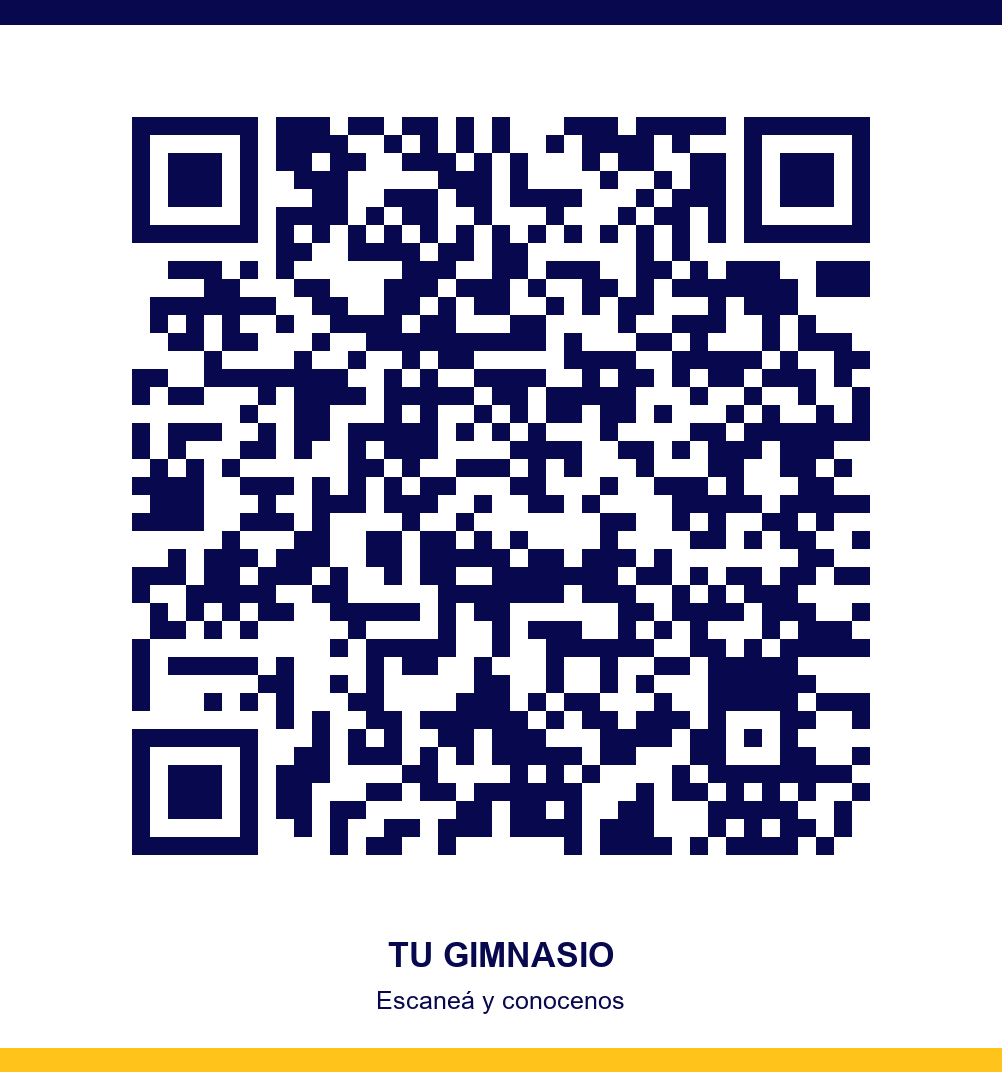
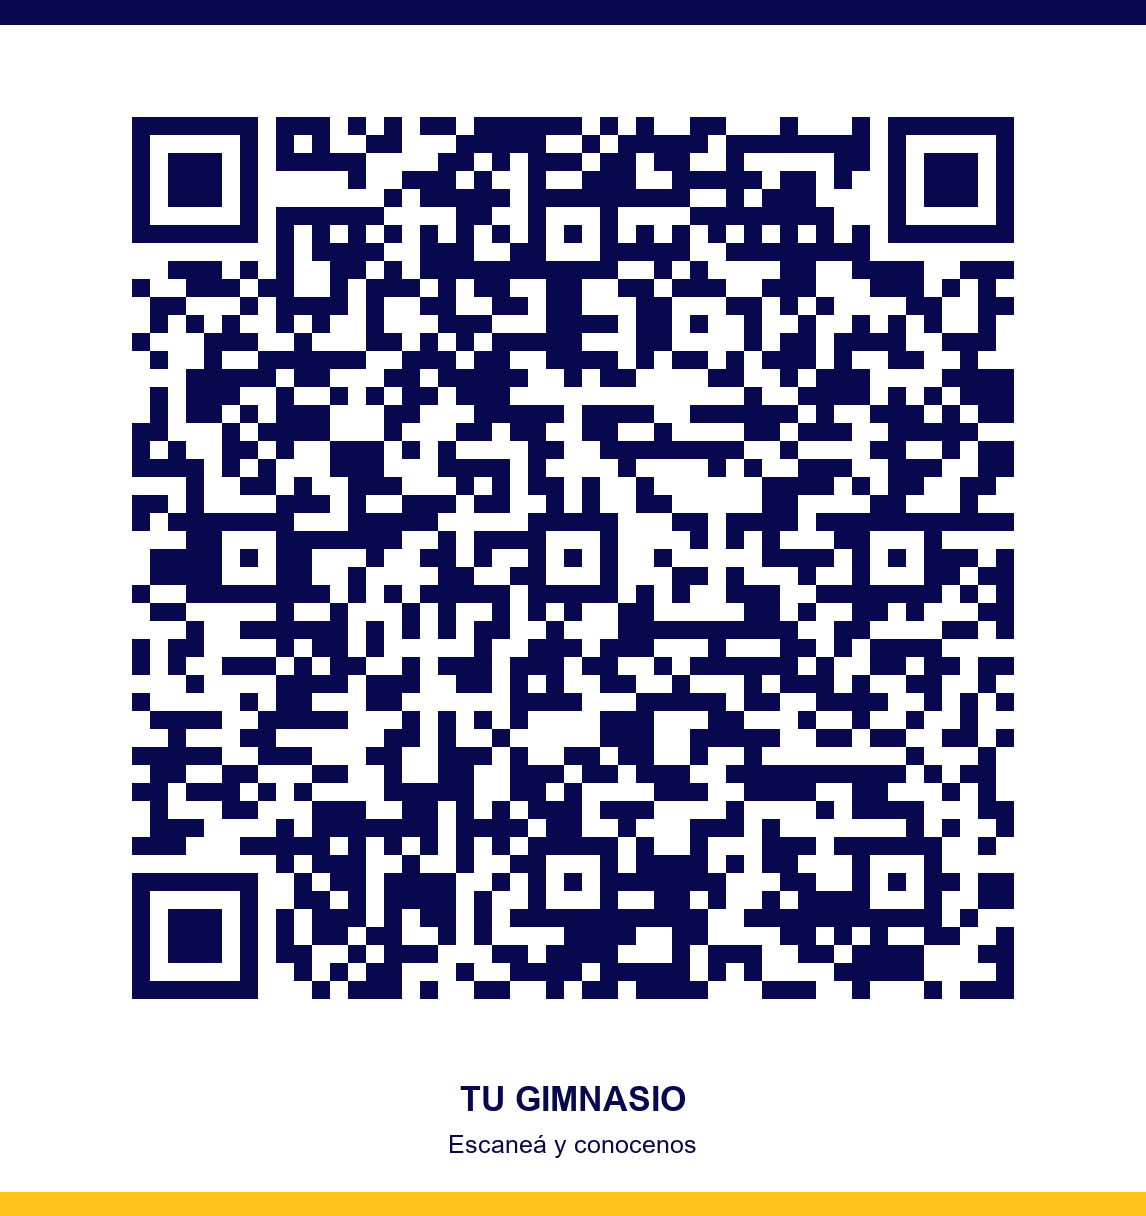
Migra enlaces y QR a la organización

diff --git a/index.html b/index.html
@@ -10,10 +10,10 @@
   <meta property="og:locale" content="es_AR">
   <meta property="og:title" content="Tu Gimnasio | Desde 1996 en Santa Lucía">
   <meta property="og:description" content="Todos somos iguales. La diferencia está en los detalles.">
-  <meta property="og:url" content="https://bautistale98.github.io/tu-gimnasio-santa-lucia/">
-  <meta property="og:image" content="https://bautistale98.github.io/tu-gimnasio-santa-lucia/tu-gimnasio-identidad.png">
+  <meta property="og:url" content="https://tu-gimnasio-santa-lucia.github.io/tu-gimnasio-santa-lucia/">
+  <meta property="og:image" content="https://tu-gimnasio-santa-lucia.github.io/tu-gimnasio-santa-lucia/tu-gimnasio-identidad.png">
   <meta name="twitter:card" content="summary_large_image">
-  <link rel="canonical" href="https://bautistale98.github.io/tu-gimnasio-santa-lucia/">
+  <link rel="canonical" href="https://tu-gimnasio-santa-lucia.github.io/tu-gimnasio-santa-lucia/">
   <link rel="icon" href="tu-gimnasio-logo.png">
   <link rel="stylesheet" href="styles.css">
 </head>
@@ -170,9 +170,9 @@
     <div class="footer-links"><a href="https://www.instagram.com/tugimnasio1/" target="_blank" rel="noopener noreferrer">Instagram</a><a href="https://maps.app.goo.gl/M5ivz5WYEiGhwfAX8" target="_blank" rel="noopener noreferrer">Google Maps</a><a href="tel:+543777723911">Llamar</a></div>
   </footer>
 
-  <script type="application/ld+json">{"@context":"https://schema.org","@type":"ExerciseGym","name":"Tu Gimnasio","foundingDate":"1996","url":"https://bautistale98.github.io/tu-gimnasio-santa-lucia/","telephone":"+54 3777 72-3911","address":{"@type":"PostalAddress","streetAddress":"Av. Italia 109","addressLocality":"Santa Lucía","addressRegion":"Corrientes","postalCode":"W3440","addressCountry":"AR"},"aggregateRating":{"@type":"AggregateRating","ratingValue":"4.8","reviewCount":"17"}}</script>
+  <script type="application/ld+json">{"@context":"https://schema.org","@type":"ExerciseGym","name":"Tu Gimnasio","foundingDate":"1996","url":"https://tu-gimnasio-santa-lucia.github.io/tu-gimnasio-santa-lucia/","telephone":"+54 3777 72-3911","address":{"@type":"PostalAddress","streetAddress":"Av. Italia 109","addressLocality":"Santa Lucía","addressRegion":"Corrientes","postalCode":"W3440","addressCountry":"AR"},"aggregateRating":{"@type":"AggregateRating","ratingValue":"4.8","reviewCount":"17"}}</script>
   <script>
-    const url = "https://bautistale98.github.io/tu-gimnasio-santa-lucia/";
+    const url = "https://tu-gimnasio-santa-lucia.github.io/tu-gimnasio-santa-lucia/";
     const shareButton = document.getElementById("share-site");
     const copyButton = document.getElementById("copy-link");
     async function copyLink() {
